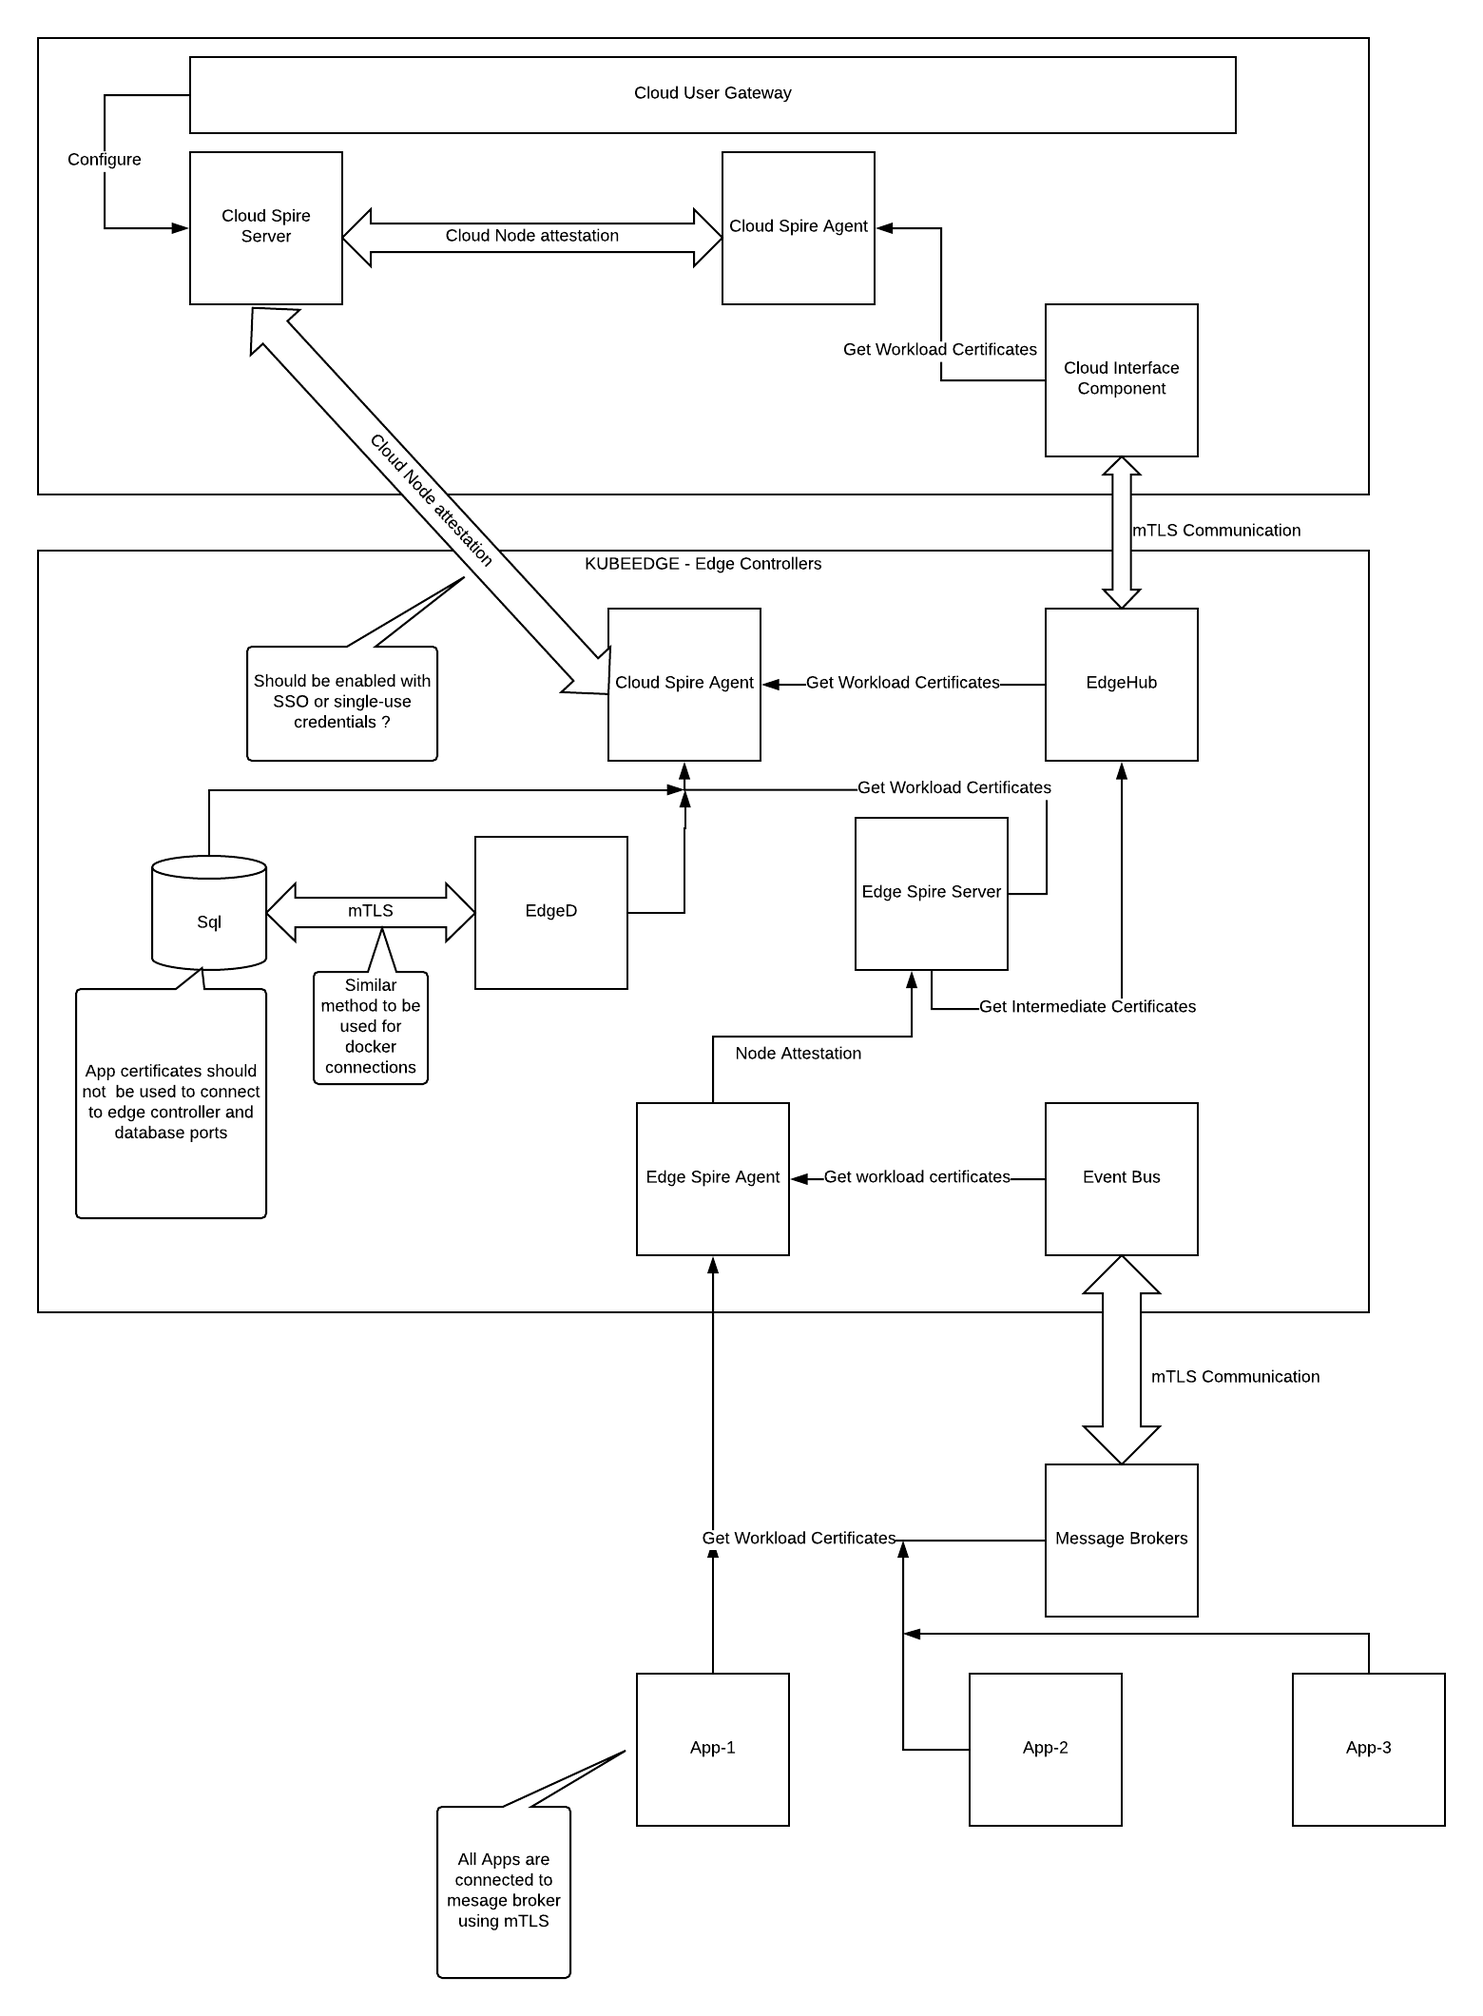
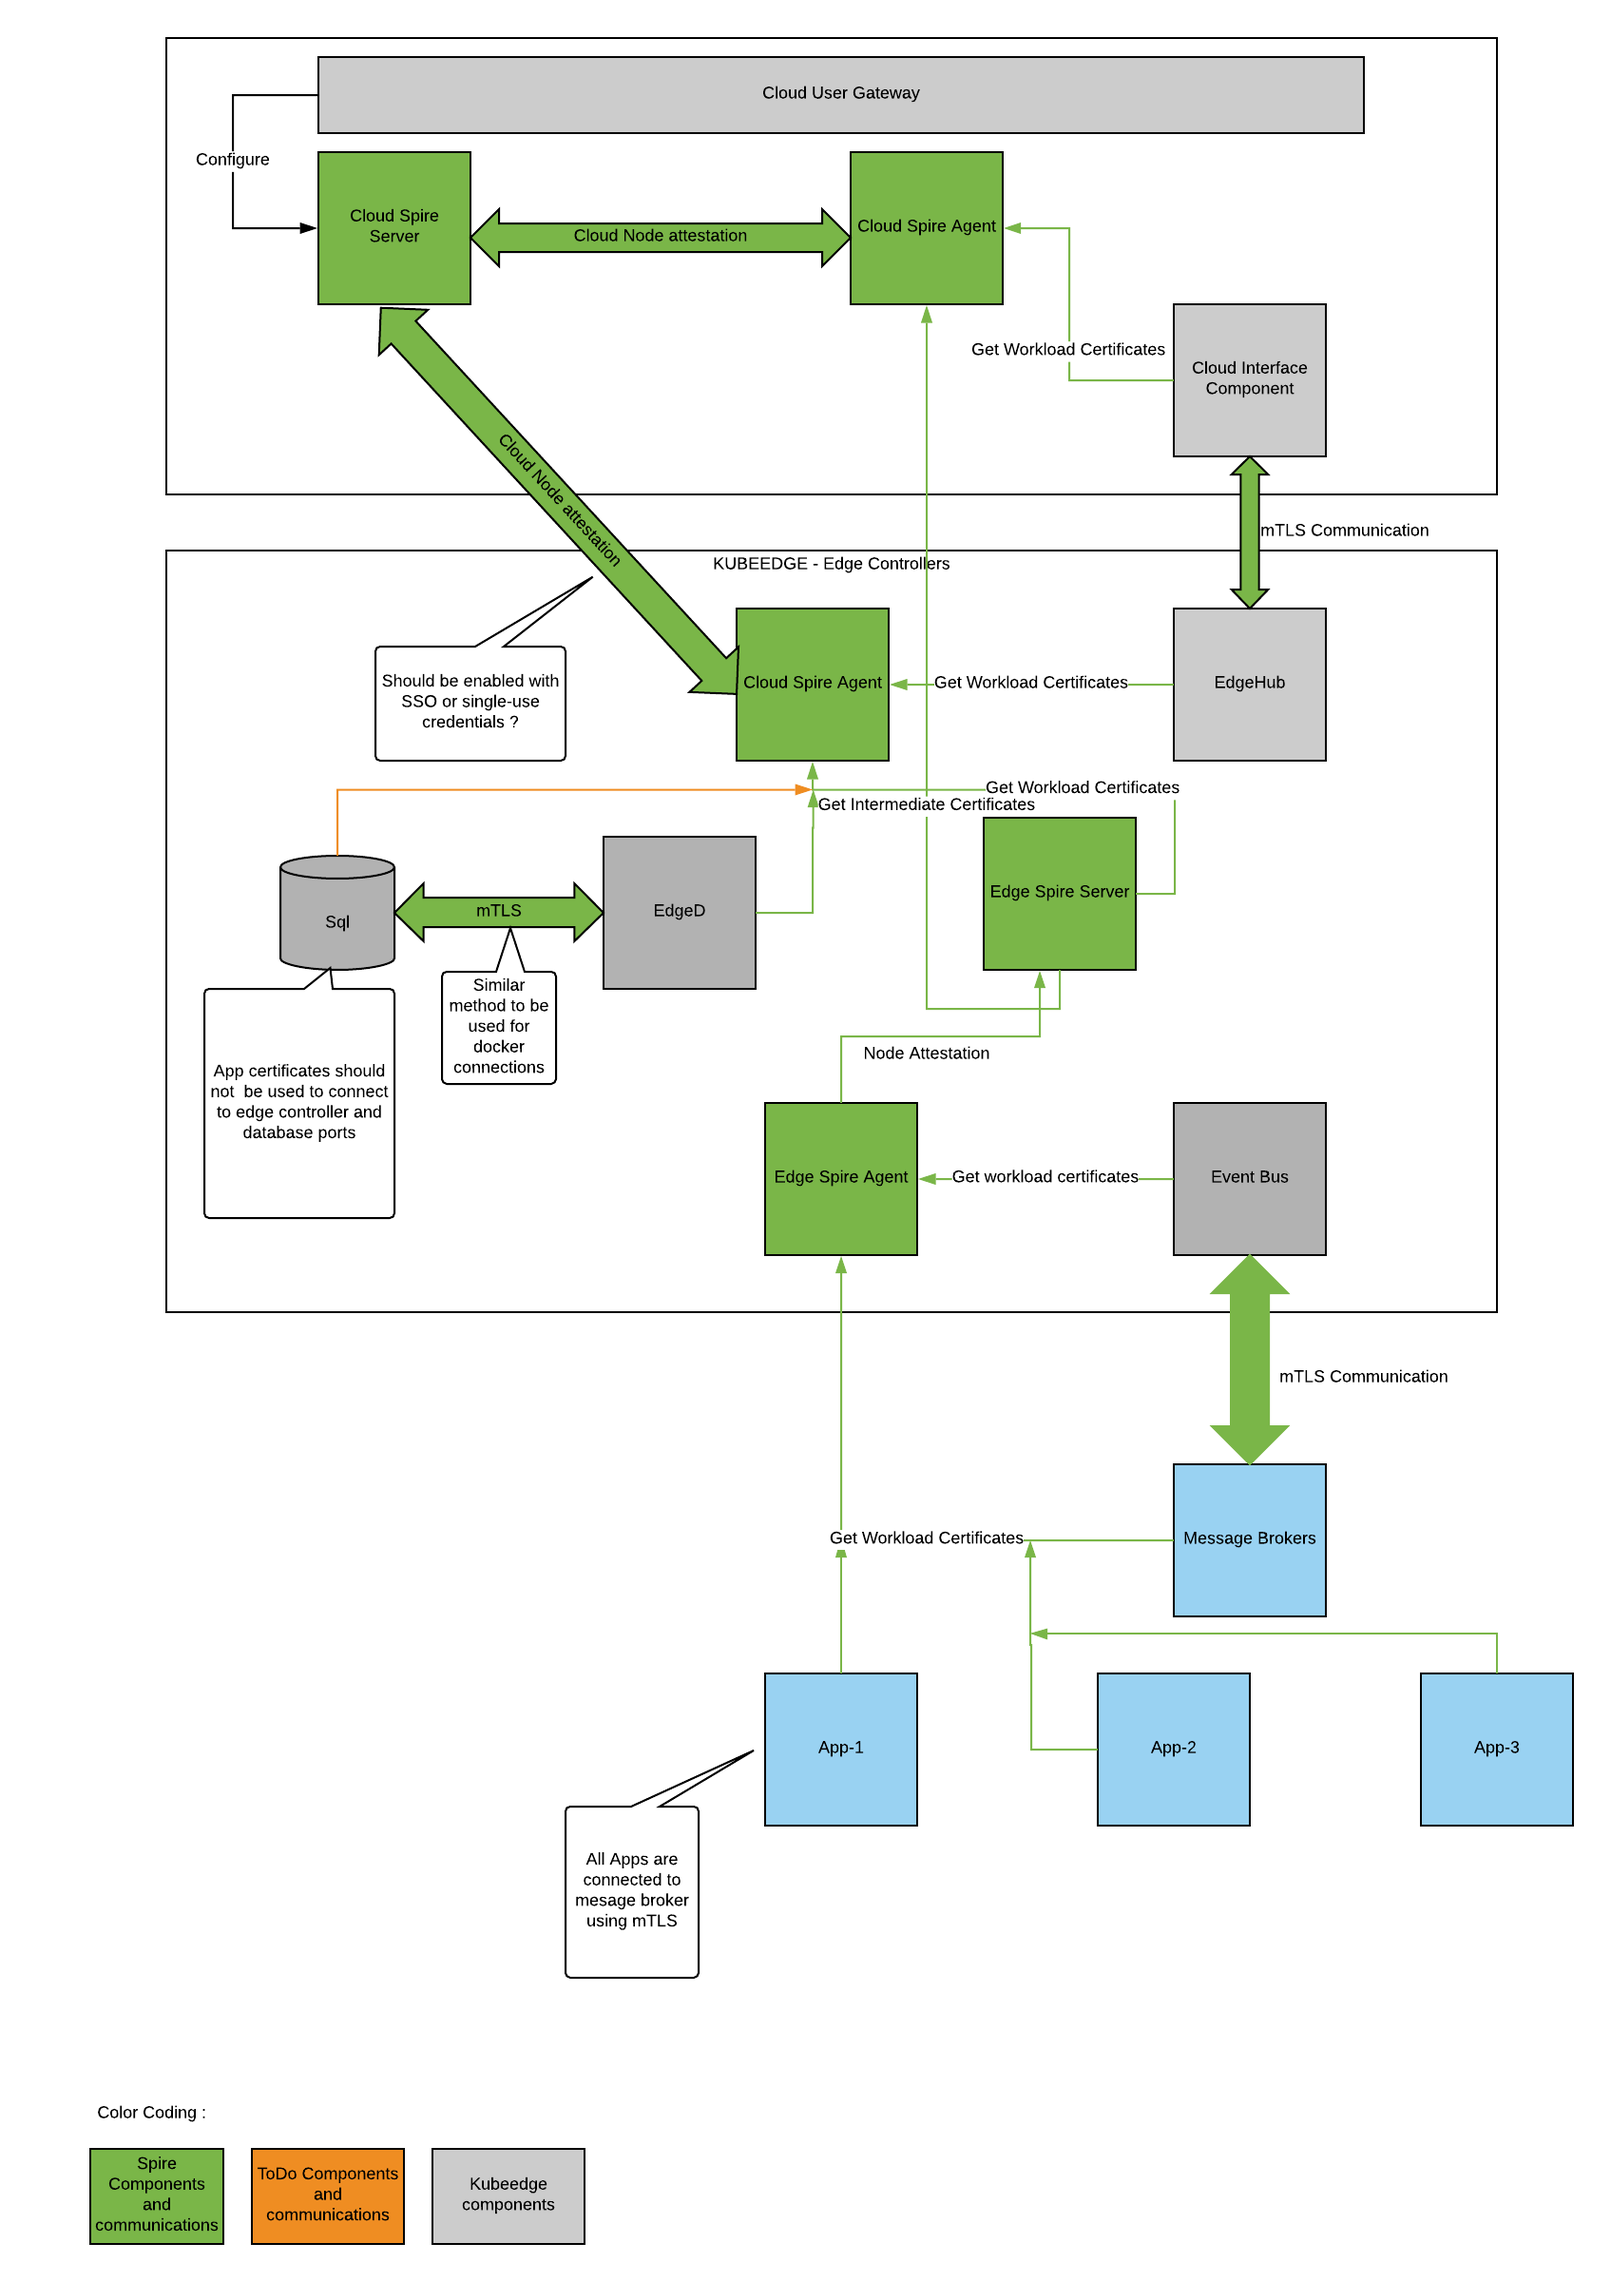
Updated demo architecture with color coding and README contents for background

diff --git a/security-demo/release/README.md b/security-demo/release/README.md
@@ -1,16 +1,53 @@
 # Identity Management Using SPIRE for Kubeedge
 
+## Background
+
+Security is a paramount requirement for edge computing architecture as security breaches can make a complete organization to come to a halt (IIot) , data breach can lead to privacy issues and also control of the complete edge computing infrastructure. 
+
+The enable better security, following needs to be satisfied for kubeedge framework
+* Only verified and authorized edge nodes should be able to join cluster and connect to cloud.
+* Applications connecting to edge computing framework should be verified against the assigned identities.
+* Applications should be authorized to send and receive data from edge computing framework.
+* Certificate rotation should be possible at each service-level.
+* Audit at service-level for all communciation between services.
+
+## SPIFFE and SPIRE
+
+The Secure Production Identity Framework For Everyone (SPIFFE) Project defines a framework and set of standards for identifying and securing communications between services.
+SPIFFE enables enterprises to transform their security posture from just protecting the edge to consistently securing all inter-service communications deep within their applications.
+SPIFFE recommends industry standards like TLS and JWT for forming a identity document for every service. The service-level identity AuthN and AuthZ removes the dependency of complex network-level ACL strategies.
+
+More information about SPIFFE can be found at [*https://github.com/spiffe/spiffe*](https://github.com/spiffe/spiffe).
+
+SPIRE (SPIFFE Runtime Environment) is a reference implementation of SPIFFE specification. SPIRE manages identities for node and workloads.
+ It provides API for controlling attestation policies and identity issuance and rotation strategies.
+
+More information about SPIRE can be found at [*https://github.com/spiffe/spire*](https://github.com/spiffe/spire).
+
+## Benefits
+
+* Node attestation: Only verifiable edge nodes can join the edge clusters. Every node is issued an identity on verification.
+ In case of failed node attestations, no identity documents can be issued for services running on the node.
+
+* Workload attestation: Only verifiable workload can run on edge nodes. In case of failed workload attestations, there are no identities issues for the workloads.
+All communications are blocked from unverified workloads.
+
+* Certificate rotation: Short-lived certificates are generated and rotation policies can be configured for every service communication.
+There is no need for custom agents and reliance on specific orchestrators for certificate rotation configuration and management.
+
+* Automated non-root CA certificate heirarchical deployments: Edge spire servers can be configured to not share any root CA chain for downstream nodes and workloads.
+
 ## SPIRE-based Identity Management Reference Architecture
 
 Goal of this example is to achieve workload identity management for
-cloud and edge processes . A reference architecture is shown below . A
-list of things to-do is listed below in version information section .
+cloud and edge processes . A reference architecture is shown below. A
+list of things to-do is listed below in version information section.
 For further integration , an extension add-on will be developed
-integrated with kubeege for the same .
+integrated with kubeege for the same.
 
 ![image](./doc/images/demo-arch.png)
 
-## Folders
+## Source Folders
 * release : Directory has configurations and scripts to be used for deployment of identity management infrastructure for Kubeedge.
 
 * app-agent-conf  : Configurations for spire agent interfacing with edge (event-bus) and user applications . Spire agent communicates to edge spire server.|
@@ -45,7 +82,7 @@ integrated with kubeege for the same .
 
 * commands.sh  : Abstracts spire cli commands.
  
-## Configuration
+## How to configure
 ### Cloud node configuration
 
 *Upstream CA – Cloud spire server configuration:*
@@ -166,8 +203,7 @@ export CLOUD\_VM\_IP=192.168.56.101
 
 export SPIRE\_PATH=/opt/spire
 
-Usage
------
+## How to setup and use
 
 1\. Copy the package to cloud node and edge node .
 
@@ -193,8 +229,7 @@ Usage of the application can be referred in the same page.
 For spire server cli usage , please refer to
 [*https://github.com/spiffe/spire*](https://github.com/spiffe/spire).
 
-Present support
----------------
+## Present support
 
 1\. Initial infrastructure deployment.
 
@@ -204,17 +239,20 @@ scripts.
 3\. Communication from user application and edge application using
 certificates issued by cloud spire server and edge spire server.
 
-ToDo
-----
+## ToDo
 
 1\. Optimization for redundancies in configuration and scripts.
 
 2\. Automate build/release and remove binaries from the package.
 
-3\. Test and support upstream\_bundle=false for edge spire server.
+3\. Test and support upstream\_bundle=false to prune rootCA at edge spire server.
 
 4\. Certificate rotation issue needs to be automated or changes may be
 required in spiffe helper for the dependency on keystore for ghostunnel.
 
 5\. Auto-generate configurations (partially) based on environment
 information.
+
+6\. Trusted cloud spire server for communication between edge spire agents, edge spire server, cloud spire agent and cloud spire server.
+
+7\. Secure communication between event bus and internal mqtt server.
